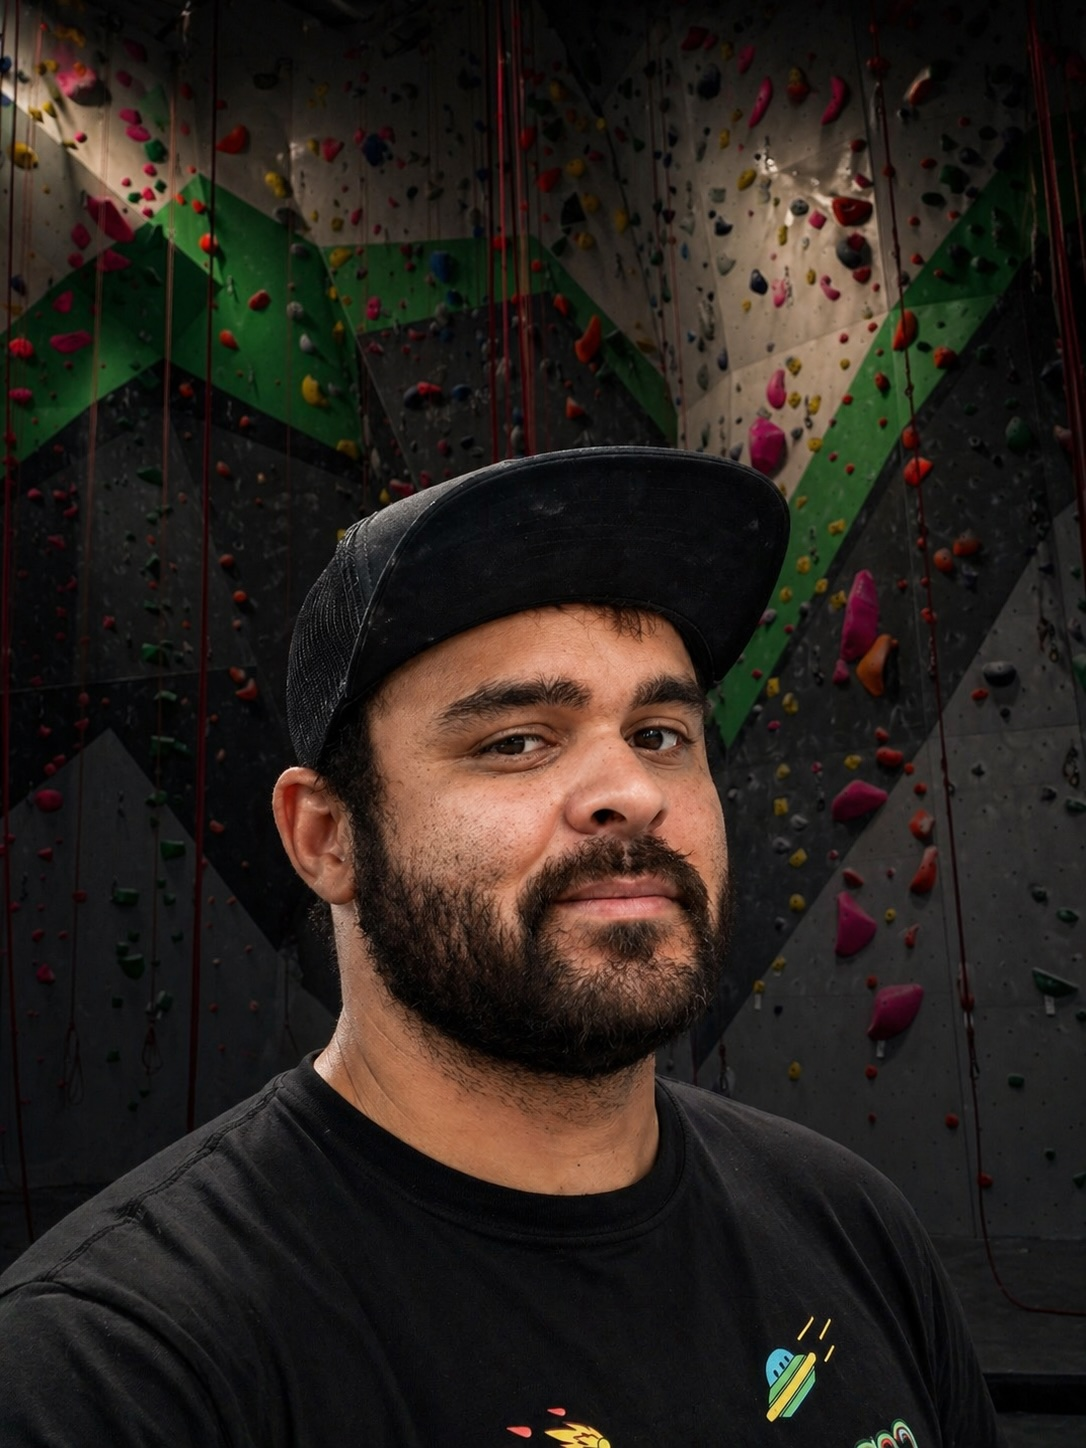
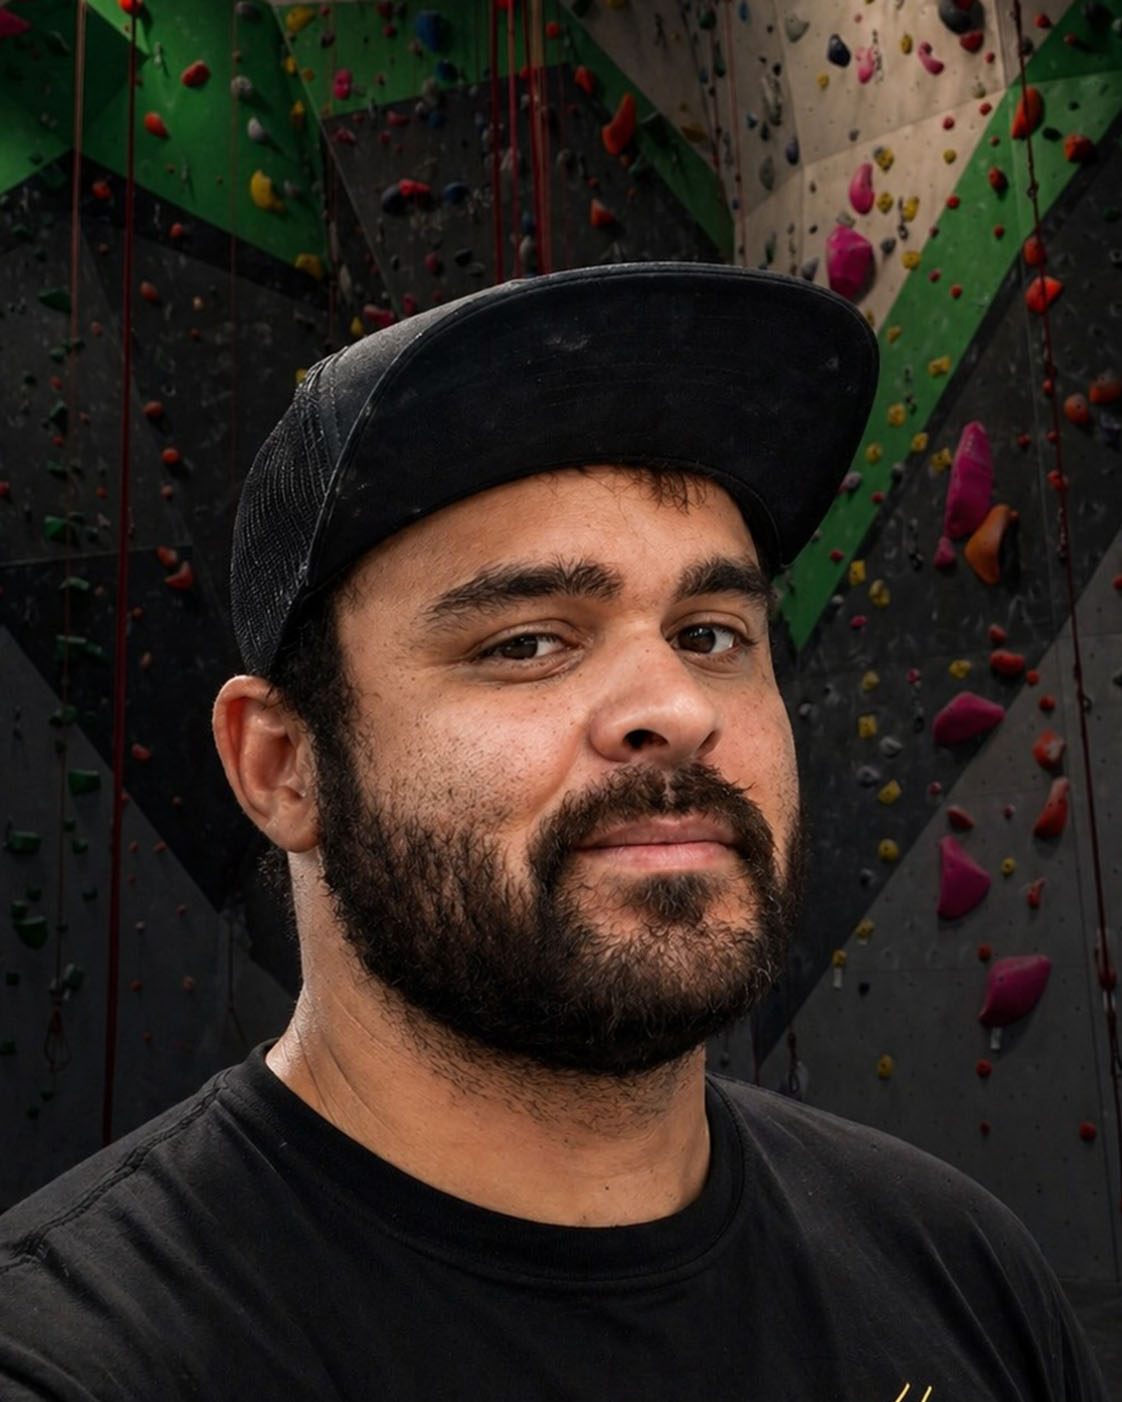
Fixed Index.html
Random fixes, sizing, content, layout

diff --git a/index.html b/index.html
@@ -197,7 +197,7 @@
   .name-uniform {
     font-family: "Arial Black", "Helvetica Neue", Impact, sans-serif;
     font-weight: 900;
-    font-size: clamp(80px, 15vw, 260px);
+    font-size: clamp(48px, 12vw, 240px);
     line-height: 0.9;
     letter-spacing: -0.04em;
     text-transform: uppercase;
@@ -608,11 +608,12 @@
   .cfn-col .cfn-label::before { content: "→ "; color: var(--accent); }
   .cfn-col h4 {
     font-family: "Arial Black", sans-serif;
-    font-size: clamp(20px, 2.2vw, 32px);
-    line-height: 1.1;
+    font-size: clamp(26px, 3vw, 44px);
+    line-height: 1.05;
     text-transform: uppercase;
-    letter-spacing: -0.015em;
+    letter-spacing: -0.02em;
     margin-bottom: 14px;
+    font-weight: 900;
   }
   .cfn-col h4 em { color: var(--accent); font-style: italic; }
   .cfn-col p {
@@ -684,6 +685,43 @@
 .portrait-slider img.active {
   opacity: 1;
 }
+
+.clock-wrap {
+  position: relative;
+  display: flex;
+  align-items: center;
+  gap: 6px;
+  cursor: default;
+}
+.clock-label {
+  font-size: 11px;
+  text-transform: uppercase;
+  letter-spacing: 0.15em;
+  color: var(--fg-dim);
+}
+.clock-tooltip {
+  display: none;
+  position: absolute;
+  top: calc(100% + 10px);
+  right: 0;
+  background: var(--bg);
+  border: 1px solid var(--accent);
+  color: var(--fg);
+  font-size: 11px;
+  letter-spacing: 0.08em;
+  text-transform: none;
+  padding: 10px 14px;
+  white-space: nowrap;
+  z-index: 200;
+  max-width: 320px;
+  white-space: normal;
+  line-height: 1.5;
+}
+.clock-wrap:hover .clock-tooltip { display: block; }
+
+.word-cycle-weird {
+  display: inline-block;
+}
 </style>
 </head>
 <body>
@@ -706,7 +744,11 @@
     <a href="how-i-work.html">How I Work</a>
     <a href="contact.html">Contact</a>
   </nav>
-  <div class="clock" id="clock">--:--:--</div>
+  <div class="clock-wrap">
+    <span class="clock-label">Time in my current location:</span>
+    <span class="clock" id="clock">--:--:--</span>
+    <div class="clock-tooltip">Time is updated based on the timezone of my digital activities, usually email or socials. Cool, huh?</div>
+  </div>
 </div>
 
 <main class="hero">
@@ -718,7 +760,6 @@
   <div class="name-frame" id="nameFrame">
     <span class="corner tl"><span class="accent">◢</span> 2026.04</span>
     <span class="corner tr">PORTFOLIO / V03 <span class="accent">◣</span></span>
-    <span class="corner bl"><span class="accent">◤</span> SCRUB ME</span>
     <span class="corner br">DESIGN · UX · UI · AI <span class="accent">◥</span></span>
     <h1 class="name-uniform" id="nameUniform">CHRSTPHR</h1>
   </div>
@@ -778,7 +819,7 @@
   </div>
   <div class="col">
     <span>Located</span>
-    <strong>Earth, mostly</strong>
+    <strong>TRP, North Carolina, mostly</strong>
   </div>
 </div>
 
@@ -825,7 +866,7 @@
 <section class="section-about">
   <div class="section-label">About / Who's This Guy</div>
   <h2 class="about-headline">
-    I make <em>weird useful things</em> with <span class="strike">computers</span> AI, opinions, and a lot of caffeine.
+    I make <em><span class="word-cycle-weird">weird</span> but useful things</em> with <span class="strike">computers</span> AI, opinions, and a lot of caffeine.
   </h2>
 
   <div class="about-grid">
@@ -863,7 +904,7 @@
     <div class="cfn-col">
       <div class="cfn-label">Formerly</div>
       <h4>Lead designer, freelance gun-for-hire, recovering <em>print purist</em>.</h4>
-      <p>Worked across SaaS, fintech, consumer apps, and at least one client who made cheese.</p>
+      <p>Worked in IT, SaaS, Enterprise Design, Consumer App &amp; Web, Food, Retail, and at least one client in the Emerald Industry.</p>
     </div>
     <div class="cfn-col">
       <div class="cfn-label">Never</div>
@@ -881,13 +922,13 @@
         <li>Brand systems with opinions</li>
         <li>Weird sites for clever people</li>
         <li>Identity that stops the scroll</li>
+        <li>Reports and data that 100% should be automated.</li>
       </ul>
     </div>
     <div class="mr-col refuse">
       <div class="mr-head">Things I refuse to make</div>
       <ul>
         <li>Beige corporate websites</li>
-        <li>Dashboards that look like dashboards</li>
         <li>Anything called "synergy"</li>
         <li>Logos shaped like infinity</li>
         <li>Generic SaaS purple gradients</li>
@@ -1078,6 +1119,36 @@
       imgs[current].classList.add('active');
     }, 3000);
   })();
+
+  // Cycle "weird" words
+  (function() {
+    const words = ['weird','fun','exciting','interesting','interactive','hilarious','cheeky','nice','awesome','techy','likable','energetic','enthusiastic','uncommon'];
+    let wi = 0;
+    const els = document.querySelectorAll('.word-cycle-weird');
+    setInterval(() => {
+      wi = (wi + 1) % words.length;
+      els.forEach(el => el.textContent = words[wi]);
+    }, 2000);
+  })();
+
+  // Scale footer mark to fill width
+  function scaleFooterMark() {
+    const mark = document.querySelector('.footer-mark');
+    if (!mark) return;
+    const parent = mark.parentElement;
+    let size = 100;
+    mark.style.fontSize = size + 'px';
+    while (mark.scrollWidth < parent.clientWidth * 0.97 && size < 600) {
+      size += 2;
+      mark.style.fontSize = size + 'px';
+    }
+    while (mark.scrollWidth > parent.clientWidth && size > 10) {
+      size -= 1;
+      mark.style.fontSize = size + 'px';
+    }
+  }
+  scaleFooterMark();
+  window.addEventListener('resize', scaleFooterMark);
 
 </script>
 

diff --git a/assets/css/global.css b/assets/css/global.css
@@ -169,7 +169,8 @@ body::before {
   font-family: "Arial Black", "Helvetica Neue", Impact, sans-serif;
   font-weight: 900;
   font-style: italic;
-  font-size: clamp(80px, 18vw, 320px);
+  font-size: clamp(80px, 22vw, 400px);
+  width: 100%;
   line-height: 0.85;
   letter-spacing: -0.05em;
   text-transform: uppercase;
